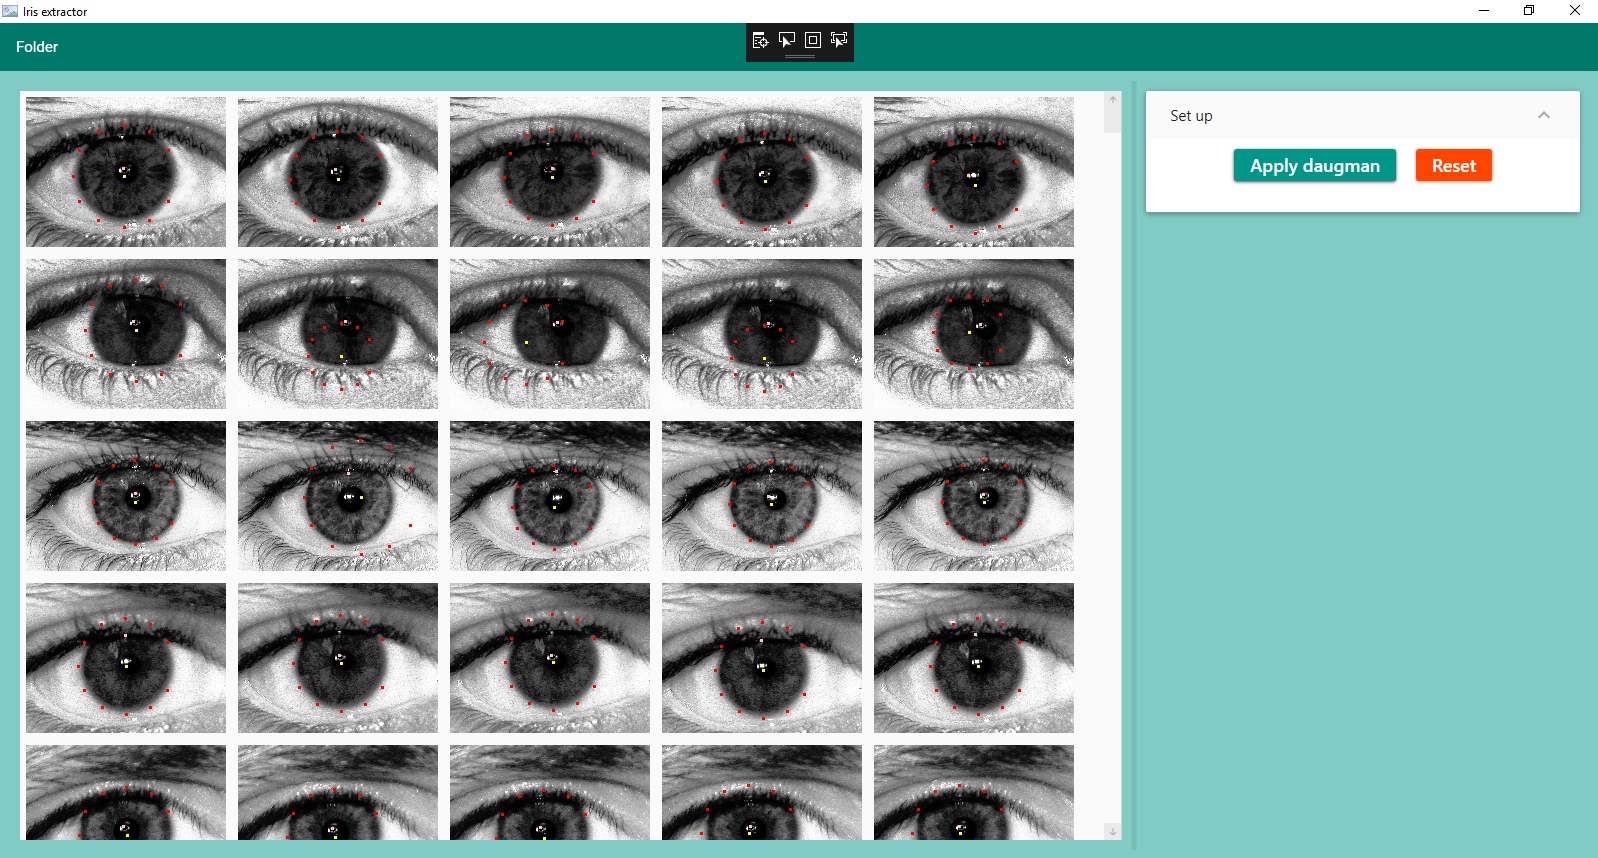
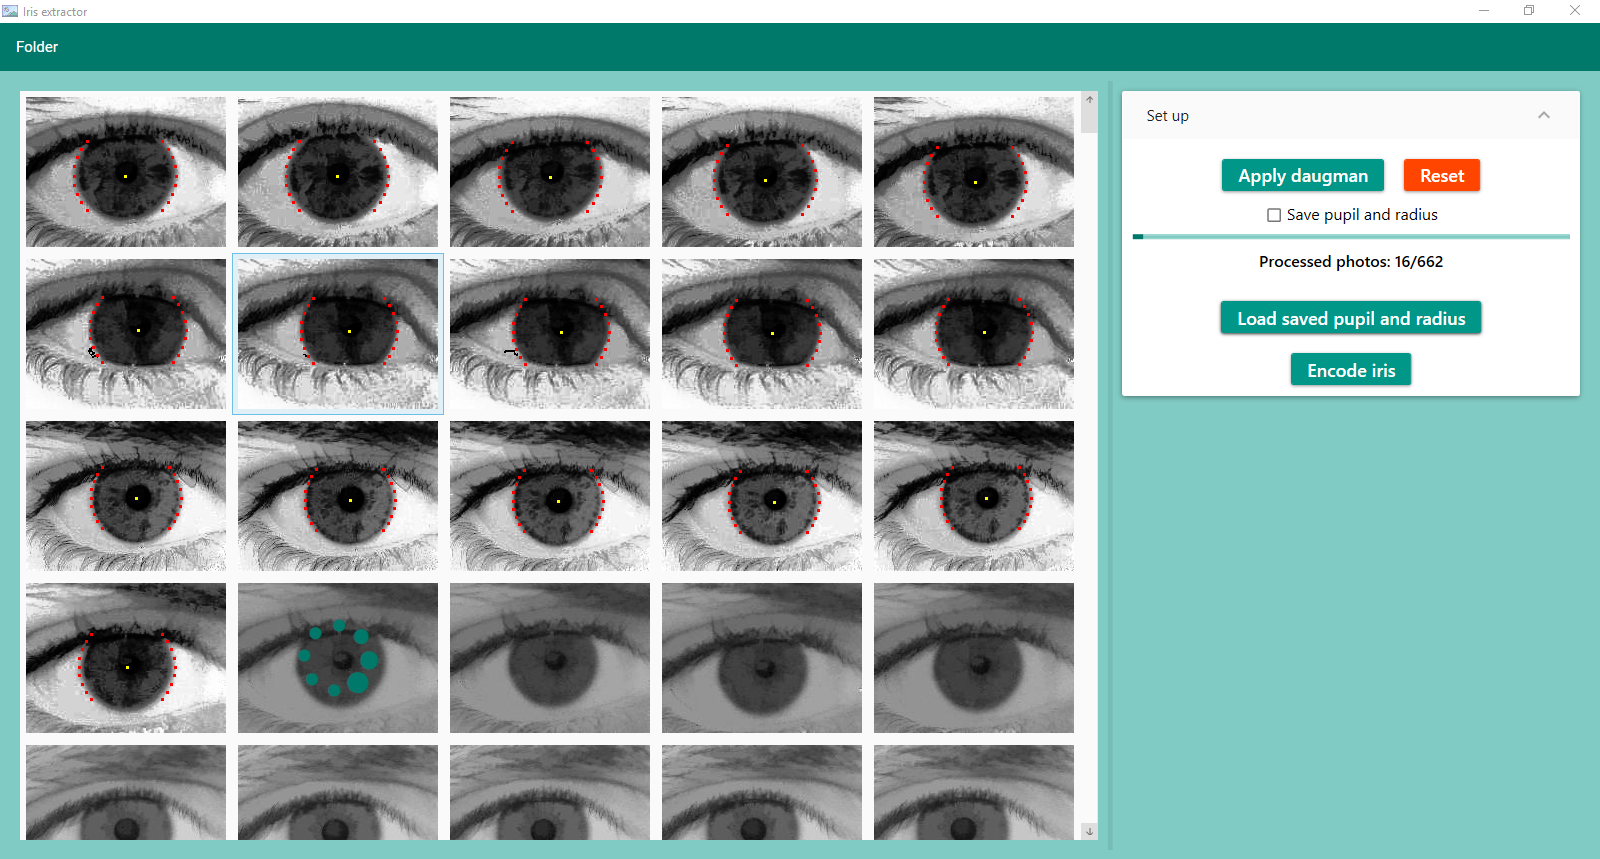
load features to db

diff --git a/IrisExtractor/Views/MainWindow.xaml b/IrisExtractor/Views/MainWindow.xaml
@@ -65,44 +65,48 @@
                 <StackPanel>
                     <Expander HorizontalAlignment="Stretch" Header="Set up"  IsExpanded="True">
                         <ScrollViewer VerticalScrollBarVisibility="Auto" Background="White" MaxHeight="650">
-                            <StackPanel>
-                                <StackPanel DataContext="{Binding DataContext.FilterItem,ElementName=MainPanel}">
-                                    <StackPanel Orientation="Horizontal" HorizontalAlignment="Center">
-                                        <Button Content="{Binding Filter.Name}" ContentStringFormat="Apply {0}"
+                            <StackPanel DataContext="{Binding DataContext.FilterItem,ElementName=MainPanel}">
+                                <StackPanel Orientation="Horizontal" HorizontalAlignment="Center" Margin="0,10,0,0">
+                                    <Button Content="{Binding Filter.Name}" ContentStringFormat="Apply {0}"
                                                     FontSize="18" HorizontalAlignment="Right" Margin="10">
 
-                                            <i:Interaction.Triggers>
-                                                <i:EventTrigger EventName="Click">
-                                                    <command:EventToCommand PassEventArgsToCommand="True" CommandParameter="{Binding .}"
+                                        <i:Interaction.Triggers>
+                                            <i:EventTrigger EventName="Click">
+                                                <command:EventToCommand PassEventArgsToCommand="True" CommandParameter="{Binding .}"
                                                                                 Command="{Binding Path=DataContext.ApplyDaugmanCommand,ElementName=MainPanel,IsAsync=True}"/>
-                                                </i:EventTrigger>
-                                            </i:Interaction.Triggers>
-                                        </Button>
-                                        <Button Content="Reset" Background="OrangeRed" BorderBrush="OrangeRed"
+                                            </i:EventTrigger>
+                                        </i:Interaction.Triggers>
+                                    </Button>
+                                    <Button Content="Reset" Background="OrangeRed" BorderBrush="OrangeRed"
                                                     FontSize="18" HorizontalAlignment="Right" Margin="10"
                                                 Command="{Binding DataContext.ResetCommand,ElementName=MainPanel}">
-                                        </Button>
-                                    </StackPanel>
-                                    <CheckBox Content="Save pupil and radius" VerticalContentAlignment="Bottom"
+                                    </Button>
+                                </StackPanel>
+                                <CheckBox Content="Save pupil and radius" VerticalContentAlignment="Bottom"
                                               HorizontalAlignment="Center" FontSize="16"
                                               IsChecked="{Binding DataContext.IsSaveToDbEnabled
                                         ,ElementName=MainPanel,Mode=OneWay}"/>
-                                    <ProgressBar Value="{Binding DataContext.ProcessedImagesCount,ElementName=MainPanel}"
+                                <ProgressBar Value="{Binding DataContext.ProcessedImagesCount,ElementName=MainPanel}"
                                                  Maximum="{Binding DataContext.ImageViewItems.Count,ElementName=MainPanel}"
                                                  Margin="10" Height="5"/>
-                                    <TextBlock
+                                <TextBlock
                                            FontSize="16" FontWeight="DemiBold" HorizontalAlignment="Center">
-                                        <TextBlock.Text>
-                                            <MultiBinding StringFormat="Processed photos: {0}/{1}" Mode="OneWay">
-                                                <Binding Path="DataContext.ProcessedImagesCount" ElementName="MainPanel" />
-                                                <Binding Path="DataContext.ImageViewItems.Count" ElementName="MainPanel"/>
-                                            </MultiBinding>
-                                        </TextBlock.Text>
-                                    </TextBlock>
-                                    <TextBlock Visibility="{Binding ErrorMessage,Converter={StaticResource NullToVisibilityConverter}}" 
+                                    <TextBlock.Text>
+                                        <MultiBinding StringFormat="Processed photos: {0}/{1}" Mode="OneWay">
+                                            <Binding Path="DataContext.ProcessedImagesCount" ElementName="MainPanel" />
+                                            <Binding Path="DataContext.ImageViewItems.Count" ElementName="MainPanel"/>
+                                        </MultiBinding>
+                                    </TextBlock.Text>
+                                </TextBlock>
+                                <TextBlock Visibility="{Binding ErrorMessage,Converter={StaticResource NullToVisibilityConverter}}" 
                                                Text="{Binding ErrorMessage,Mode=TwoWay}"  HorizontalAlignment="Left"
                                                FontSize="16" Foreground="OrangeRed" FontWeight="DemiBold" />
-                                </StackPanel>
+                                <Button Content="Load saved pupil and radius"
+                                        FontSize="18" HorizontalAlignment="Center" Margin="10" 
+                                        Command="{Binding DataContext.LoadIrisFeaturesCommand,ElementName=MainPanel}"/>
+                                <Button Content="Encode iris"
+                                        FontSize="18" HorizontalAlignment="Center" Margin="10" 
+                                        Command="{Binding DataContext.EncodeIrisCommand,ElementName=MainPanel}"/>
                             </StackPanel>
                         </ScrollViewer>
                     </Expander>

diff --git a/IrisExtractor/ViewModel/MainViewModel.cs b/IrisExtractor/ViewModel/MainViewModel.cs
@@ -2,8 +2,11 @@ using GalaSoft.MvvmLight;
 using GalaSoft.MvvmLight.CommandWpf;
 using ImageEditor.Filters;
 using ImageEditor.Filters.Interfaces;
+using ImageEditor.Helpers;
 using ImageEditor.ViewModel.Helpers;
 using Microsoft.WindowsAPICodePack.Dialogs;
+using System;
+using System.Collections.Generic;
 using System.Collections.ObjectModel;
 using System.Data.Entity.Migrations;
 using System.Drawing;
@@ -11,6 +14,9 @@ using System.IO;
 using System.Linq;
 using System.Threading.Tasks;
 using System.Windows;
+using System.Windows.Media;
+using System.Windows.Media.Imaging;
+using Color = System.Drawing.Color;
 using Point = System.Drawing.Point;
 
 namespace ImageEditor.ViewModel
@@ -37,6 +43,8 @@ namespace ImageEditor.ViewModel
         #region relay commands
         public RelayCommand OpenFolderCommand { get; private set; }
         public RelayCommand ResetCommand { get; private set; }
+        public RelayCommand EncodeIrisCommand { get; private set; }
+        public RelayCommand LoadIrisFeaturesCommand { get; set; }
         public RelayCommand<object> ApplyDaugmanCommand { get; private set; }
         #endregion
 
@@ -45,6 +53,8 @@ namespace ImageEditor.ViewModel
             OpenFolderCommand = new RelayCommand(OpenFolder);
             ApplyDaugmanCommand = new RelayCommand<object>(ApplyFilter);
             ResetCommand = new RelayCommand(ResetFilter);
+            EncodeIrisCommand=new RelayCommand(EncodeIris);
+            LoadIrisFeaturesCommand=new RelayCommand(LoadIrisFeatures);
             ImageViewItems = new ObservableCollection<ImageViewItem>();
 
             if (FilterItem.Filter is IError e)
@@ -91,22 +101,28 @@ namespace ImageEditor.ViewModel
                 item.SpinnerVisibility = Visibility.Visible;
                 var filterResult= await ApplyFilterAsync(new Bitmap(item.ProcessedBitmap), filter);
                 item.ProcessedBitmap = filterResult.Bitmap;
+                item.Pupil = filterResult.Pupil;
+                item.Radius = filterResult.Radius;
                 RaisePropertyChanged(nameof(item.ProcessedBitmap));
                 item.SpinnerVisibility = Visibility.Hidden;
                 ProcessedImagesCount++;
+                SaveIrisFeaturesToDb(item, filterResult);
+            }
+        }
 
-                if(!IsSaveToDbEnabled) continue;
-                using (var context=new DaugmanContext())
+        private void SaveIrisFeaturesToDb(ImageViewItem item, FilterResult filterResult)
+        {
+            if (!IsSaveToDbEnabled) return;
+            using (var context = new DaugmanContext())
+            {
+                context.Photos.AddOrUpdate(new Photo()
                 {
-                    context.Photos.AddOrUpdate(new Photo()
-                    {
-                        Path = item.FilePath,
-                        CenterX = filterResult.Pupil.X,
-                        CenterY = filterResult.Pupil.Y,
-                        Radius = filterResult.Radius
-                    });              
-                    context.SaveChanges();
-                }               
+                    Path = item.FilePath,
+                    CenterX = filterResult.Pupil.X,
+                    CenterY = filterResult.Pupil.Y,
+                    Radius = filterResult.Radius
+                });
+                context.SaveChanges();
             }
         }
 
@@ -116,6 +132,88 @@ namespace ImageEditor.ViewModel
             {
                 return filterItem.Filter.Filter(b);
             });
+        }
+
+        private void LoadIrisFeatures()
+        {
+            using (var context=new DaugmanContext())
+            {
+                foreach (var item in ImageViewItems)
+                {
+                    var irisFeature = context.Photos.Find(item.FilePath);
+                    var tmp = new Bitmap(item.ProcessedBitmap);
+                   
+                    var pupil = new Point(irisFeature.CenterX, irisFeature.CenterY);
+                    var radius = irisFeature.Radius;
+                    item.Pupil = pupil;
+                    item.Radius = radius;
+
+                    MarkPoint(tmp,pupil,Color.Yellow);
+                    foreach (var p in pupil.GetCircularPoints(radius, Math.PI / 17.0f))
+                    {
+                        if (p.Y + 1 >= tmp.Height || p.Y - 1 < 0 || p.X - 1 < 0 || p.X + 1 >=tmp.Width)
+                            continue;
+                        MarkPoint(tmp,p, Color.Red);
+                    }
+
+                    item.ProcessedBitmap = tmp;
+                }
+            }          
+        }
+
+        private void EncodeIris()
+        {
+            foreach (var item in ImageViewItems)
+            {
+                var radius = item.Radius;
+                var pupil = item.Pupil;
+                var height = item.OriginalBitmap.Height;
+                var width = item.OriginalBitmap.Width;
+
+                Bitmap bmp = new Bitmap(width, height);
+                using (Graphics g = Graphics.FromImage(bmp)) { g.Clear(Color.AntiqueWhite); }
+
+                var pointsWithDistanceToPupil = GetPointsInsideIris(radius, pupil);
+                foreach (var p in pointsWithDistanceToPupil)
+                {
+                    var angle = pupil.GetAngle(p.point);
+                    var newPoint = PointExtensions.PolarToCartesian(angle, p.distance);
+                    var color = item.OriginalBitmap.GetPixel(p.point.X, p.point.Y);
+                    bmp.SetPixel(p.point.X, p.point.Y, color);
+                }
+
+                item.ProcessedBitmap = bmp;
+            }           
+        }
+
+        private List<(Point point, double distance)> GetPointsInsideIris(int radius, Point pupil)
+        {
+            var points = new List<(Point,double)>();
+            for (int i = pupil.X - radius; i < pupil.X + radius; i++)
+            {
+                for (int j = pupil.Y - radius; j < pupil.Y + radius; j++)
+                {
+                    var point = new Point(i, j);
+                    var distance = Math.Sqrt(Math.Pow(i - pupil.X, 2) + Math.Pow(j - pupil.Y, 2));
+                    if (distance > radius) continue;
+                    points.Add((point,distance));
+                }
+            }
+
+            return points;
+        }
+
+        private void MarkPoint(Bitmap bitmap,Point p, Color color)
+        {
+            bitmap.SetPixel(p.X, p.Y, color);
+            bitmap.SetPixel(p.X - 1, p.Y, color);
+            bitmap.SetPixel(p.X + 1, p.Y, color);
+            bitmap.SetPixel(p.X - 1, p.Y + 1, color);
+            bitmap.SetPixel(p.X, p.Y + 1, color);
+            bitmap.SetPixel(p.X + 1, p.Y + 1, color);
+            bitmap.SetPixel(p.X - 1, p.Y - 1, color);
+            bitmap.SetPixel(p.X, p.Y - 1, color);
+            bitmap.SetPixel(p.X + 1, p.Y - 1, color);
         }
 
         private void ResetFilter()

diff --git a/IrisExtractor.Tests.Unit/PointExtensionsTests.cs b/IrisExtractor.Tests.Unit/PointExtensionsTests.cs
@@ -1,0 +1,73 @@
+using System.Drawing;
+using ImageEditor.Helpers;
+using NUnit.Framework;
+
+namespace IrisExtractor.Tests.Unit
+{
+    public class PointExtensionsTests
+    {
+        [Test]
+        public void GetAngle_Returns_Approximately_0_When_First_Point_Is_00_And_Second_10()
+        {
+            var point1 = new Point(0, 0);
+            var point2 = new Point(1, 0);
+
+            var angle = point1.GetAngle(point2);
+
+            Assert.AreEqual(0, angle, 1);
+        }
+
+        [Test]
+        public void GetAngle_Returns_Approximately_45_When_First_Point_Is_00_And_Second_11()
+        {
+            var point1 = new Point(0, 0);
+            var point2 = new Point(1, 1);
+
+            var angle = point1.GetAngle(point2);
+
+            Assert.AreEqual(45,angle,1);
+        }
+
+        [Test]
+        public void GetAngle_Returns_Approximately_90_When_First_Point_Is_00_And_Second_01()
+        {
+            var point1 = new Point(0, 0);
+            var point2 = new Point(0,1);
+
+            var angle = point1.GetAngle(point2);
+
+            Assert.AreEqual(90, angle, 1);
+        }
+
+        [Test]
+        public void GetAngle_Returns_Approximately_180_When_First_Point_Is_00_And_Second_minus10()
+        {
+            var point1 = new Point(0, 0);
+            var point2 = new Point(-1, 0);
+
+            var angle = point1.GetAngle(point2);
+
+            Assert.AreEqual(180, angle, 1);
+        }
+
+        [Test]
+        public void GetAngle_Returns_Approximately_Minus90_When_First_Point_Is_00_And_Second_0minus1()
+        {
+            var point1 = new Point(0, 0);
+            var point2 = new Point(0, -1);
+
+            var angle = point1.GetAngle(point2);
+
+            Assert.AreEqual(-90, angle, 1);
+        }
+
+        [Test]
+        public void PolarToCartersian_Returns()
+        {
+            var angle = 22.6;
+            var radius = 13;
+            var expectedPoint=new Point(12,5);
+            Assert.AreEqual(expectedPoint,PointExtensions.PolarToCartesian(angle,radius));
+        }
+    }
+}

diff --git a/IrisExtractor/Helpers/PointExtensions.cs b/IrisExtractor/Helpers/PointExtensions.cs
@@ -1,7 +1,7 @@
 using System;
 using System.Collections.Generic;
-using System.Drawing;
-using System.Linq;
+using System.Windows;
+using Point = System.Drawing.Point;
 
 namespace ImageEditor.Helpers
 {
@@ -23,5 +23,22 @@ namespace ImageEditor.Helpers
             points.RemoveRange(14, 8);
             return points;
         }
+
+        public static double GetAngle(this Point p1, Point p2)
+        {
+            float xDiff = p2.X - p1.X;
+            float yDiff = p2.Y - p1.Y;
+            return Math.Atan2(yDiff, xDiff) * (180 / Math.PI);
+        }
+
+        public static Point PolarToCartesian(double angle, double radius)
+        {
+            var angleRad = (Math.PI / 180.0) * angle;
+            var x =(int)Math.Round(radius * Math.Cos(angleRad));
+            var y =(int)Math.Round(radius * Math.Sin(angleRad));
+
+            return new Point(x, y);
+        }
+      
     }
 }
